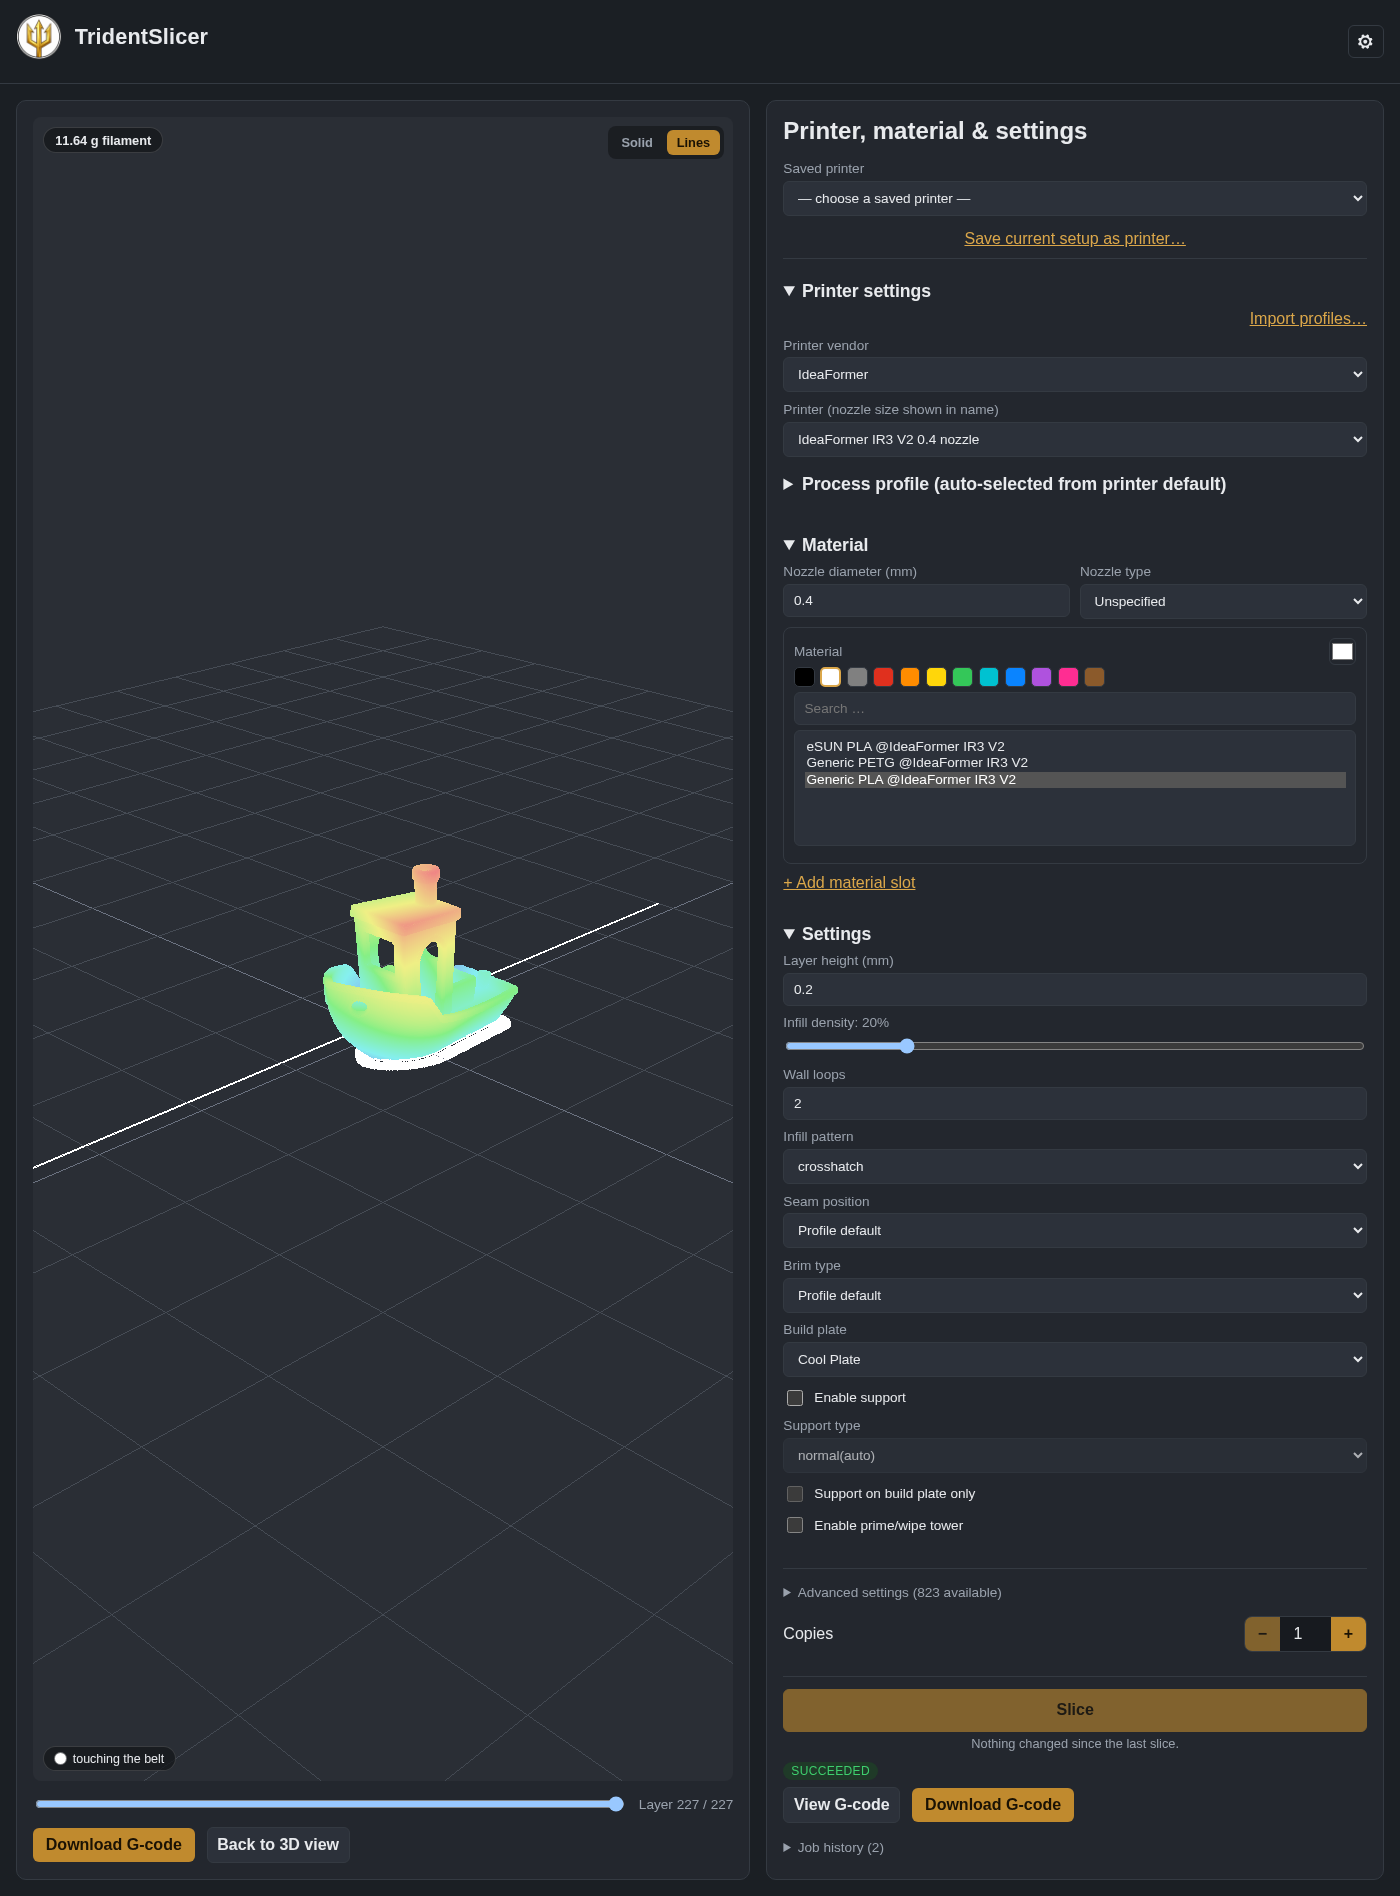
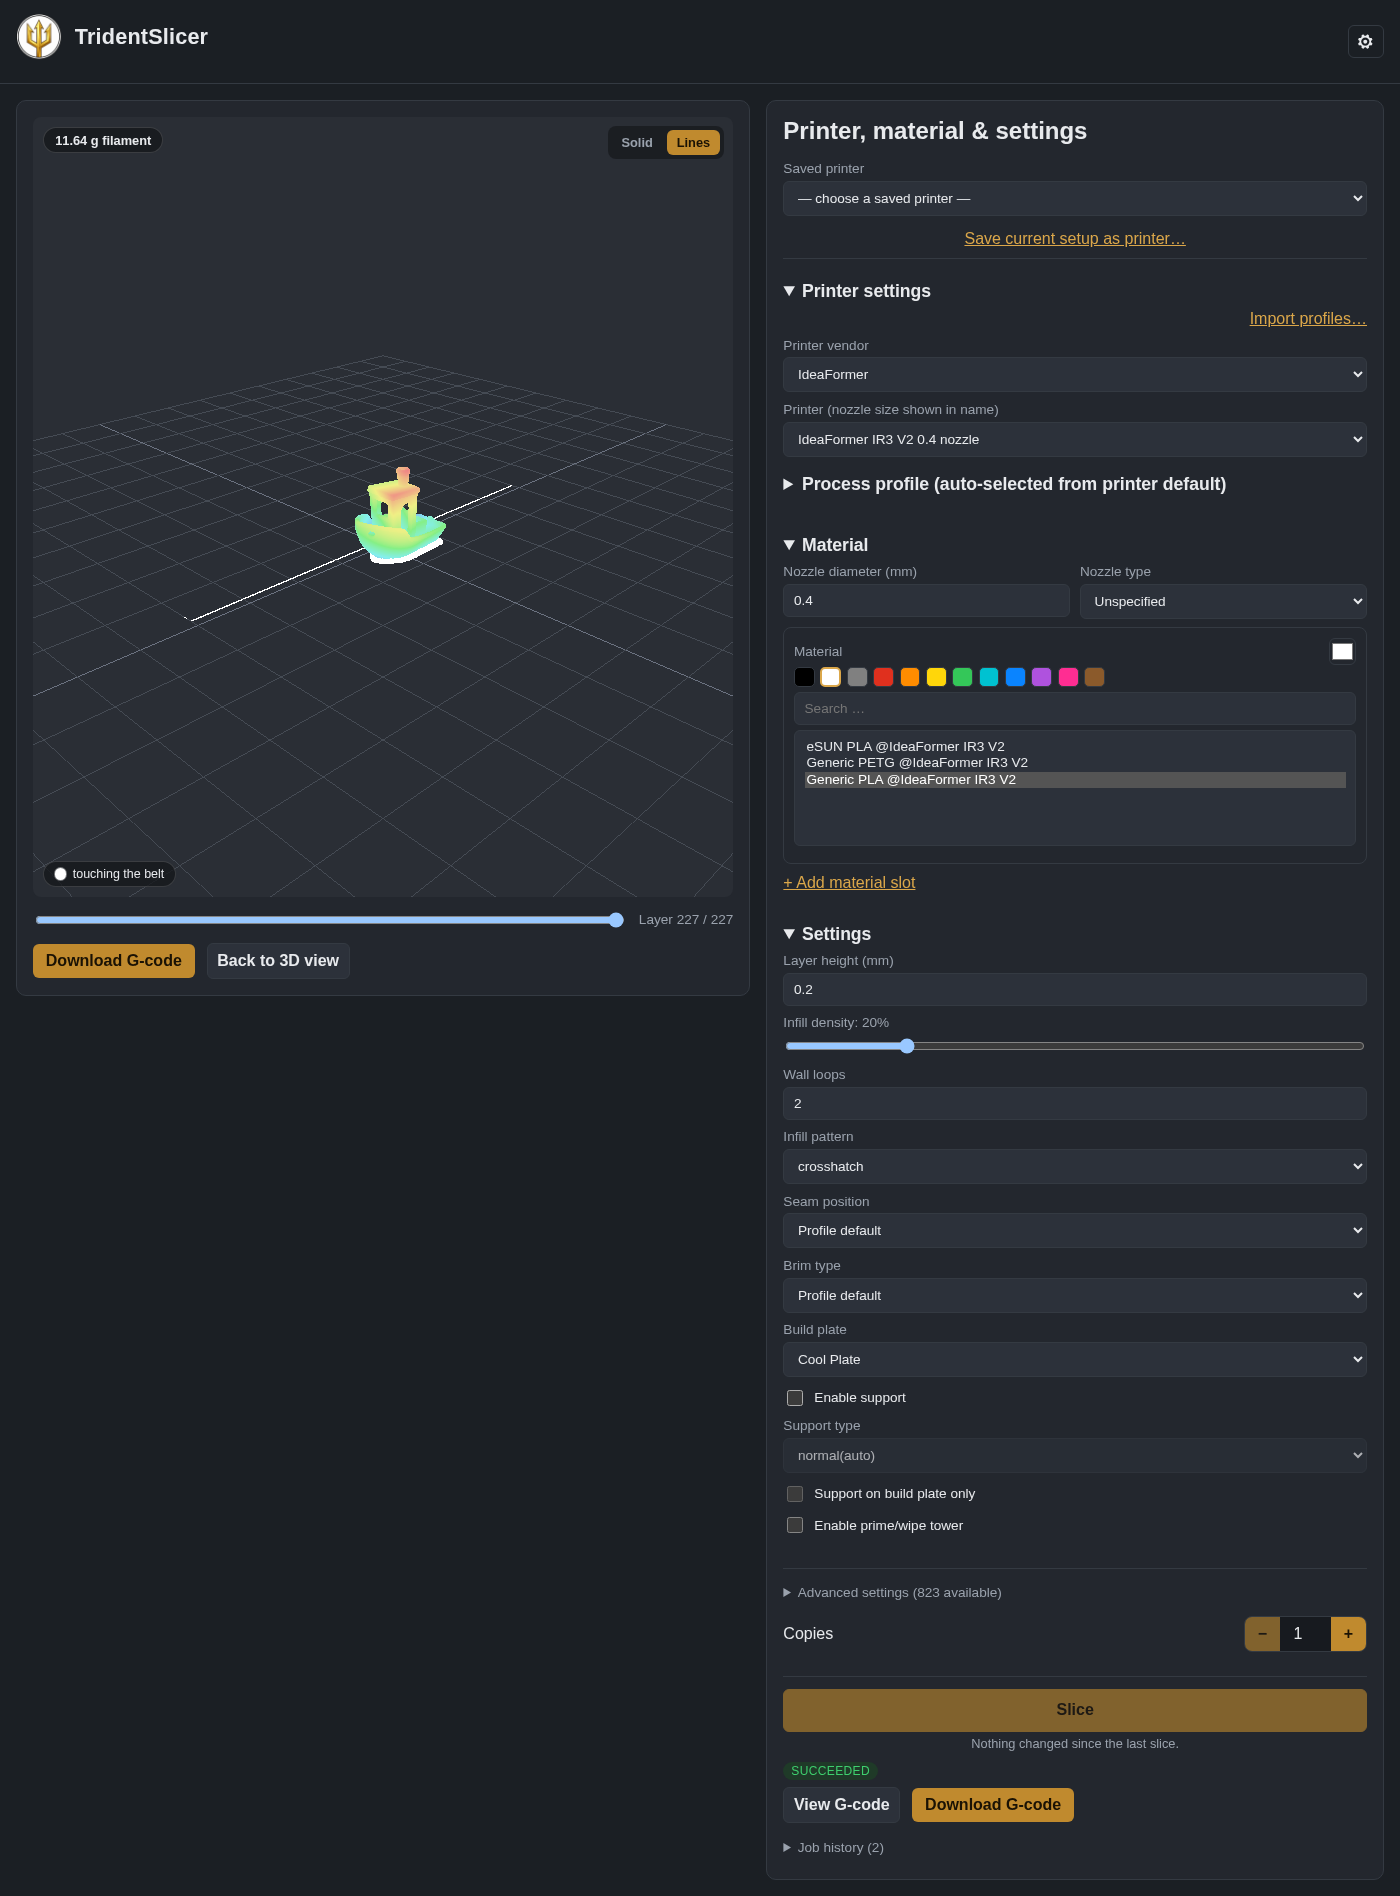
Give the G-code viewer the same fixed size as the 3D viewer
The fixed-size viewer fix only covered the 3D viewer wrapper, so after slicing the G-code
viewer lost its stretch and collapsed to its 320px minimum. It now uses the same
clamp(360px, 52vh, 800px) on desktop. README screenshots retaken.

diff --git a/web/src/App.css b/web/src/App.css
@@ -93,7 +93,8 @@
     overflow-y: auto;
   }
 
-  .panel-viewer .viewer-wrap {
+  .panel-viewer .viewer-wrap,
+  .panel-viewer .gcode-viewer-wrap {
     flex: none;
     min-height: 0;
     height: clamp(360px, 52vh, 800px);
